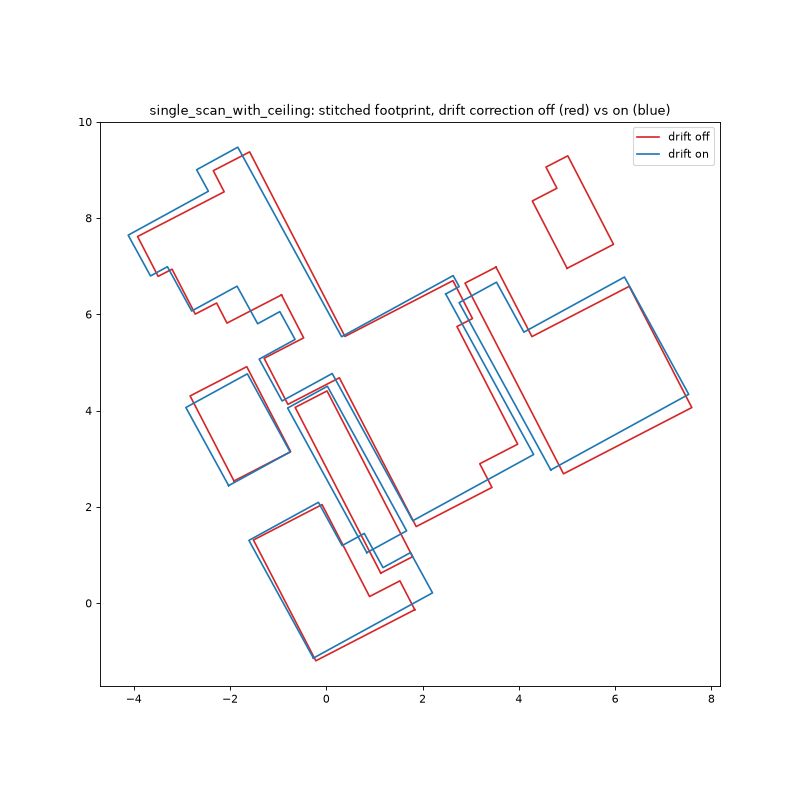
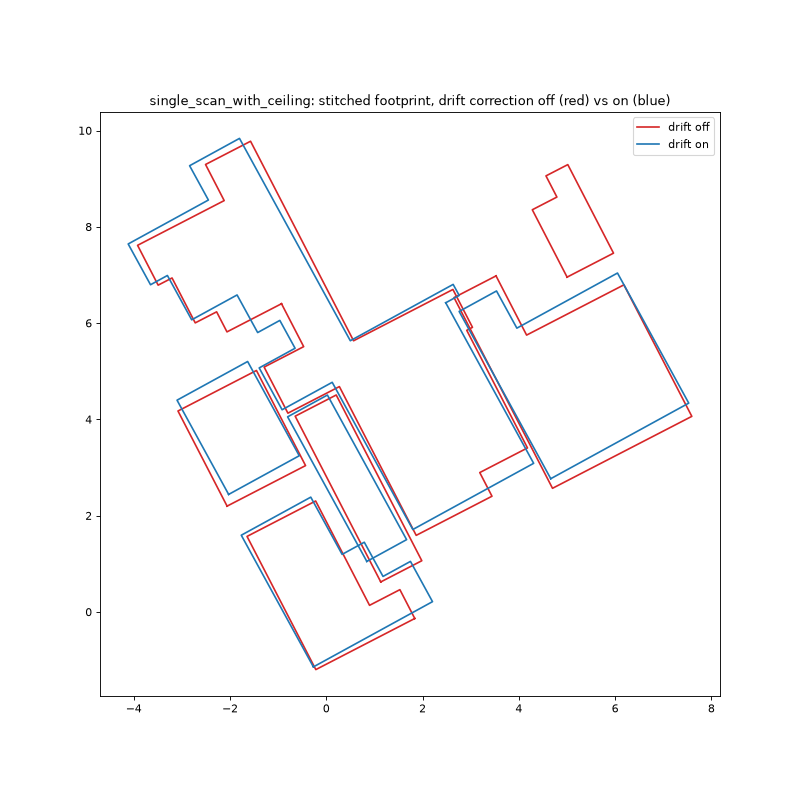
Final audit: interval claim and error budget match calibration, per-capture damage table, drift ablation regenerated with final code, README reproduction notes, explicit pillow dependency

diff --git a/docs/TECHNICAL_REPORT.md b/docs/TECHNICAL_REPORT.md
@@ -38,14 +38,14 @@ differences are honest differences in the input, not in the code.
 
 | tier | input (protocol: docs/CAPTURE_PROTOCOL.md) | runs on | wall error on benchmark flat (mean abs) | honest accuracy claim |
 |---|---|---|---|---|
-| LiDAR | Stray Scanner recording, start/end at same corner, ceiling swept | iPhone 12 Pro or newer Pro/Pro Max (tested: iPhone 17 Pro; Cozmo sample) | 7.5 % (1-10 cm on correctly segmented walls, biased short ~4 cm) | ±6 cm per wall (95 %) when the room is segmented correctly |
+| LiDAR | Stray Scanner recording, start/end at same corner, ceiling swept | iPhone 12 Pro or newer Pro/Pro Max (tested: iPhone 17 Pro; Cozmo sample) | 7.5 % (1-10 cm on correctly segmented walls, biased short ~4 cm) | ±8 cm per wall length (95 %) when the room is segmented correctly |
 | video | one landscape walkthrough, 1x lens, 1080p+ | any iPhone 15+ / Android flagship (tested: iPhone 17 Pro, OnePlus 13) | 12.1-12.5 % | ±20 % per wall (95 %); room grouping can split/merge rooms |
 | photo | 4-8 landscape stills per room, corner to corner | any phone with EXIF focal length (tested: iPhone 17 Pro, OnePlus 13) | 13.0 % (OnePlus), 13.4 % (iPhone) | ±20 % per wall (95 %), ±30 % without EXIF |
 
 Intrinsics for image tiers: from EXIF 35 mm-equivalent focal (photo, `f_px = f35 · diag_px / 43.27`)
 or container metadata (Android video writes `lens.focal_length`). Known intrinsics were the
 single biggest accuracy lever: with model-estimated focal length, depth was 36 % short on the
-Cozmo sample. Run times (RTX 4070 Laptop 8 GB): LiDAR 40-150 s, photo 55-70 s, video 2-4 min.
+Cozmo sample. Run times (RTX 4070 Laptop 8 GB): LiDAR 40-155 s, photo 40-70 s, video 2-4 min.
 
 ## 3. Drift handling
 
@@ -65,8 +65,8 @@ plane, which needs no ground truth):
 | capture | sharpness off → on | footprint off → on | heading drift found | kept by guard |
 |---|---|---|---|---|
 | Cozmo sample, multi-room (floor only) | 0.413 → **0.504** | 48.8 → 52.9 m² | 3.1° | yes |
-| Cozmo sample, multi-room (with ceiling) | 0.401 → 0.413 | 42.1 → 43.0 m² | 3.2° | yes |
-| benchmark flat, iPhone 17 Pro (tape 46.9 m²) | 0.339 → 0.319 | **36.5** → 34.9 m² | 13.3° (estimate) | **no** |
+| Cozmo sample, multi-room (with ceiling) | 0.401 → 0.413 | 48.4 → 46.6 m² | 3.2° | yes |
+| benchmark flat, iPhone 17 Pro (tape 46.9 m²) | 0.339 → 0.319 | **37.2** → 35.6 m² | 13.3° (estimate) | **no** |
 
 The last row is a guard success with ground truth behind it: on the furnished benchmark flat the
 per-window yaw estimate was dominated by non-Manhattan clutter (13° of apparent drift is far more
@@ -83,9 +83,9 @@ corner; we did not have time to diagnose why, so loop closure is unproven on rea
 | plane fit noise (median of 10³-10⁴ pts) | < 1 mm | MAD/√n |
 | LiDAR range bias | ~1 cm | Apple spec; floor/ceiling peaks are 1-2 cm thick |
 | heading drift over a room | 0.5-2 cm | ablation above |
-| surface definition (tape at 1 m vs plane fit; skirting, plaster bulge) | 2-4 cm | systematic −4 cm mean on bedroom2 / living |
+| surface definition (tape at 1 m vs plane fit; skirting, plaster bulge) | 2-4 cm | systematic −4.4 cm mean on correctly segmented walls |
 | tape ground truth | ~0.5 cm | two readings per wall |
-| **observed RMS on correctly segmented walls** | **5.8 cm** | benchmark |
+| **observed RMS on correctly segmented walls** | **5.6 cm** (8 of 12 matched walls; range −9.9 to +0.5 cm) | benchmark |
 | segmentation failure (furniture to 2.1 m, merged rooms) | 0.3-1.1 m | bedroom1, living (section 7) |
 
 Image tiers: metric scale of the depth network dominates (~10 % per room, measured as the RMS
@@ -167,9 +167,19 @@ visible walls. One reverted change: jamb snapping on the photo tier made doors w
 Damage is searched only on wall pixels (3D point within 3 cm of a measured wall plane), as dark
 soft blobs (stains) and thin dark ridges (cracks), gated against busy texture (curtains hang
 within 3 cm of the window wall), classified zero-shot by CLIP against damage and non-damage
-prompts, then measured in metres on that surface and merged across frames. On the staged room
-(LiDAR): the 1.1 m crack is found (partial extent, 13-47 cm per region, 0.72-0.82), the
-10 x 10 cm water stain is missed, one false positive elsewhere in the flat. Concealed-damage
+prompts, then measured in metres on that surface and merged across frames.
+
+| capture | staged crack (1.1 m, bedroom1) | staged stain (10 cm, bedroom1) | detections elsewhere (false positives) |
+|---|---|---|---|
+| LiDAR bedroom1 scan a / b | found: 0.12 m / 0.61 m of extent (1.85-2.50 m high) | missed | 0 |
+| LiDAR whole flat | not found | missed | 2 (bedroom2) |
+| photo iPhone / OnePlus | not found | missed | 1 / 1 |
+| video iPhone / OnePlus | not found | missed | 1 (a "mould" that also fires rule R3) / 0 |
+
+Damage is the least mature part: the staged crack is found only in close LiDAR room scans, the
+small stain never, and roughly one false positive per capture remains (one of which triggers a
+concealed-damage flag, so flags inherit detector errors). Next step: a small segmenter trained
+on public crack/stain data, evaluated on these staged regions. Concealed-damage
 rules R1-R5 (stain near ceiling → leak above; near floor → rising damp/pipe; mould → hidden
 growth; crack > 1 m → structural; stain > 0.25 m² → saturated substrate) fire with the rule
 name in the JSON; scope items are keyed to surface IDs (`R1-W2`).

diff --git a/README.md b/README.md
@@ -20,7 +20,7 @@ Requirements: Windows or Linux, NVIDIA GPU with >= 8 GB (tested: RTX 4070 Laptop
 Python 3.11, [uv](https://docs.astral.sh/uv/) (or pip), git.
 
 ```bash
-git clone <this repo> && cd cozmoAiAssignment
+git clone https://github.com/abhigyan04/cozmoAiAssignment.git && cd cozmoAiAssignment
 uv venv --python 3.11 .venv
 # PyTorch with CUDA (pick the index matching your driver; cu128 tested)
 uv pip install --python .venv/Scripts/python.exe torch torchvision --index-url https://download.pytorch.org/whl/cu128
@@ -48,9 +48,14 @@ Typical run times on an RTX 4070 Laptop: LiDAR 40-90 s, photo (4 rooms) ~1-2 min
 ## Reproducing every reported number
 
 ```bash
-python scripts/fetch_data.py                 # benchmark raw data (location metadata stripped)
-python scripts/reproduce.py                  # runs every capture + scores against tape -> benchmark/results/
+python scripts/fetch_data.py                 # benchmark raw data (location metadata stripped) -> data/raw/
+python scripts/reproduce.py                  # score cached plans (benchmark/plans/) -> benchmark/REPORT.md
+python scripts/reproduce.py --force          # re-run every capture live (~30 min on RTX 4070), then score
 ```
+Cozmo's sample LiDAR scans are not redistributed: place the three folders next to the repo
+(`../single_room`, `../single_scan_floor_only`, `../single_scan_with_ceiling`); runs whose
+input is missing are skipped. Drift ablation: `python scripts/drift_ablation.py <scan> ...`
+(figures in `benchmark/ablation/`). Head-to-head: `python scripts/head_to_head.py`.
 Ground truth (tape): [benchmark/ground_truth.csv](benchmark/ground_truth.csv), sketch [benchmark/flat_sketch.jpg](benchmark/flat_sketch.jpg).
 Fix loop before/after: [docs/FIX_LOOP.md](docs/FIX_LOOP.md) (before = git tag `fixloop-before`).
 
